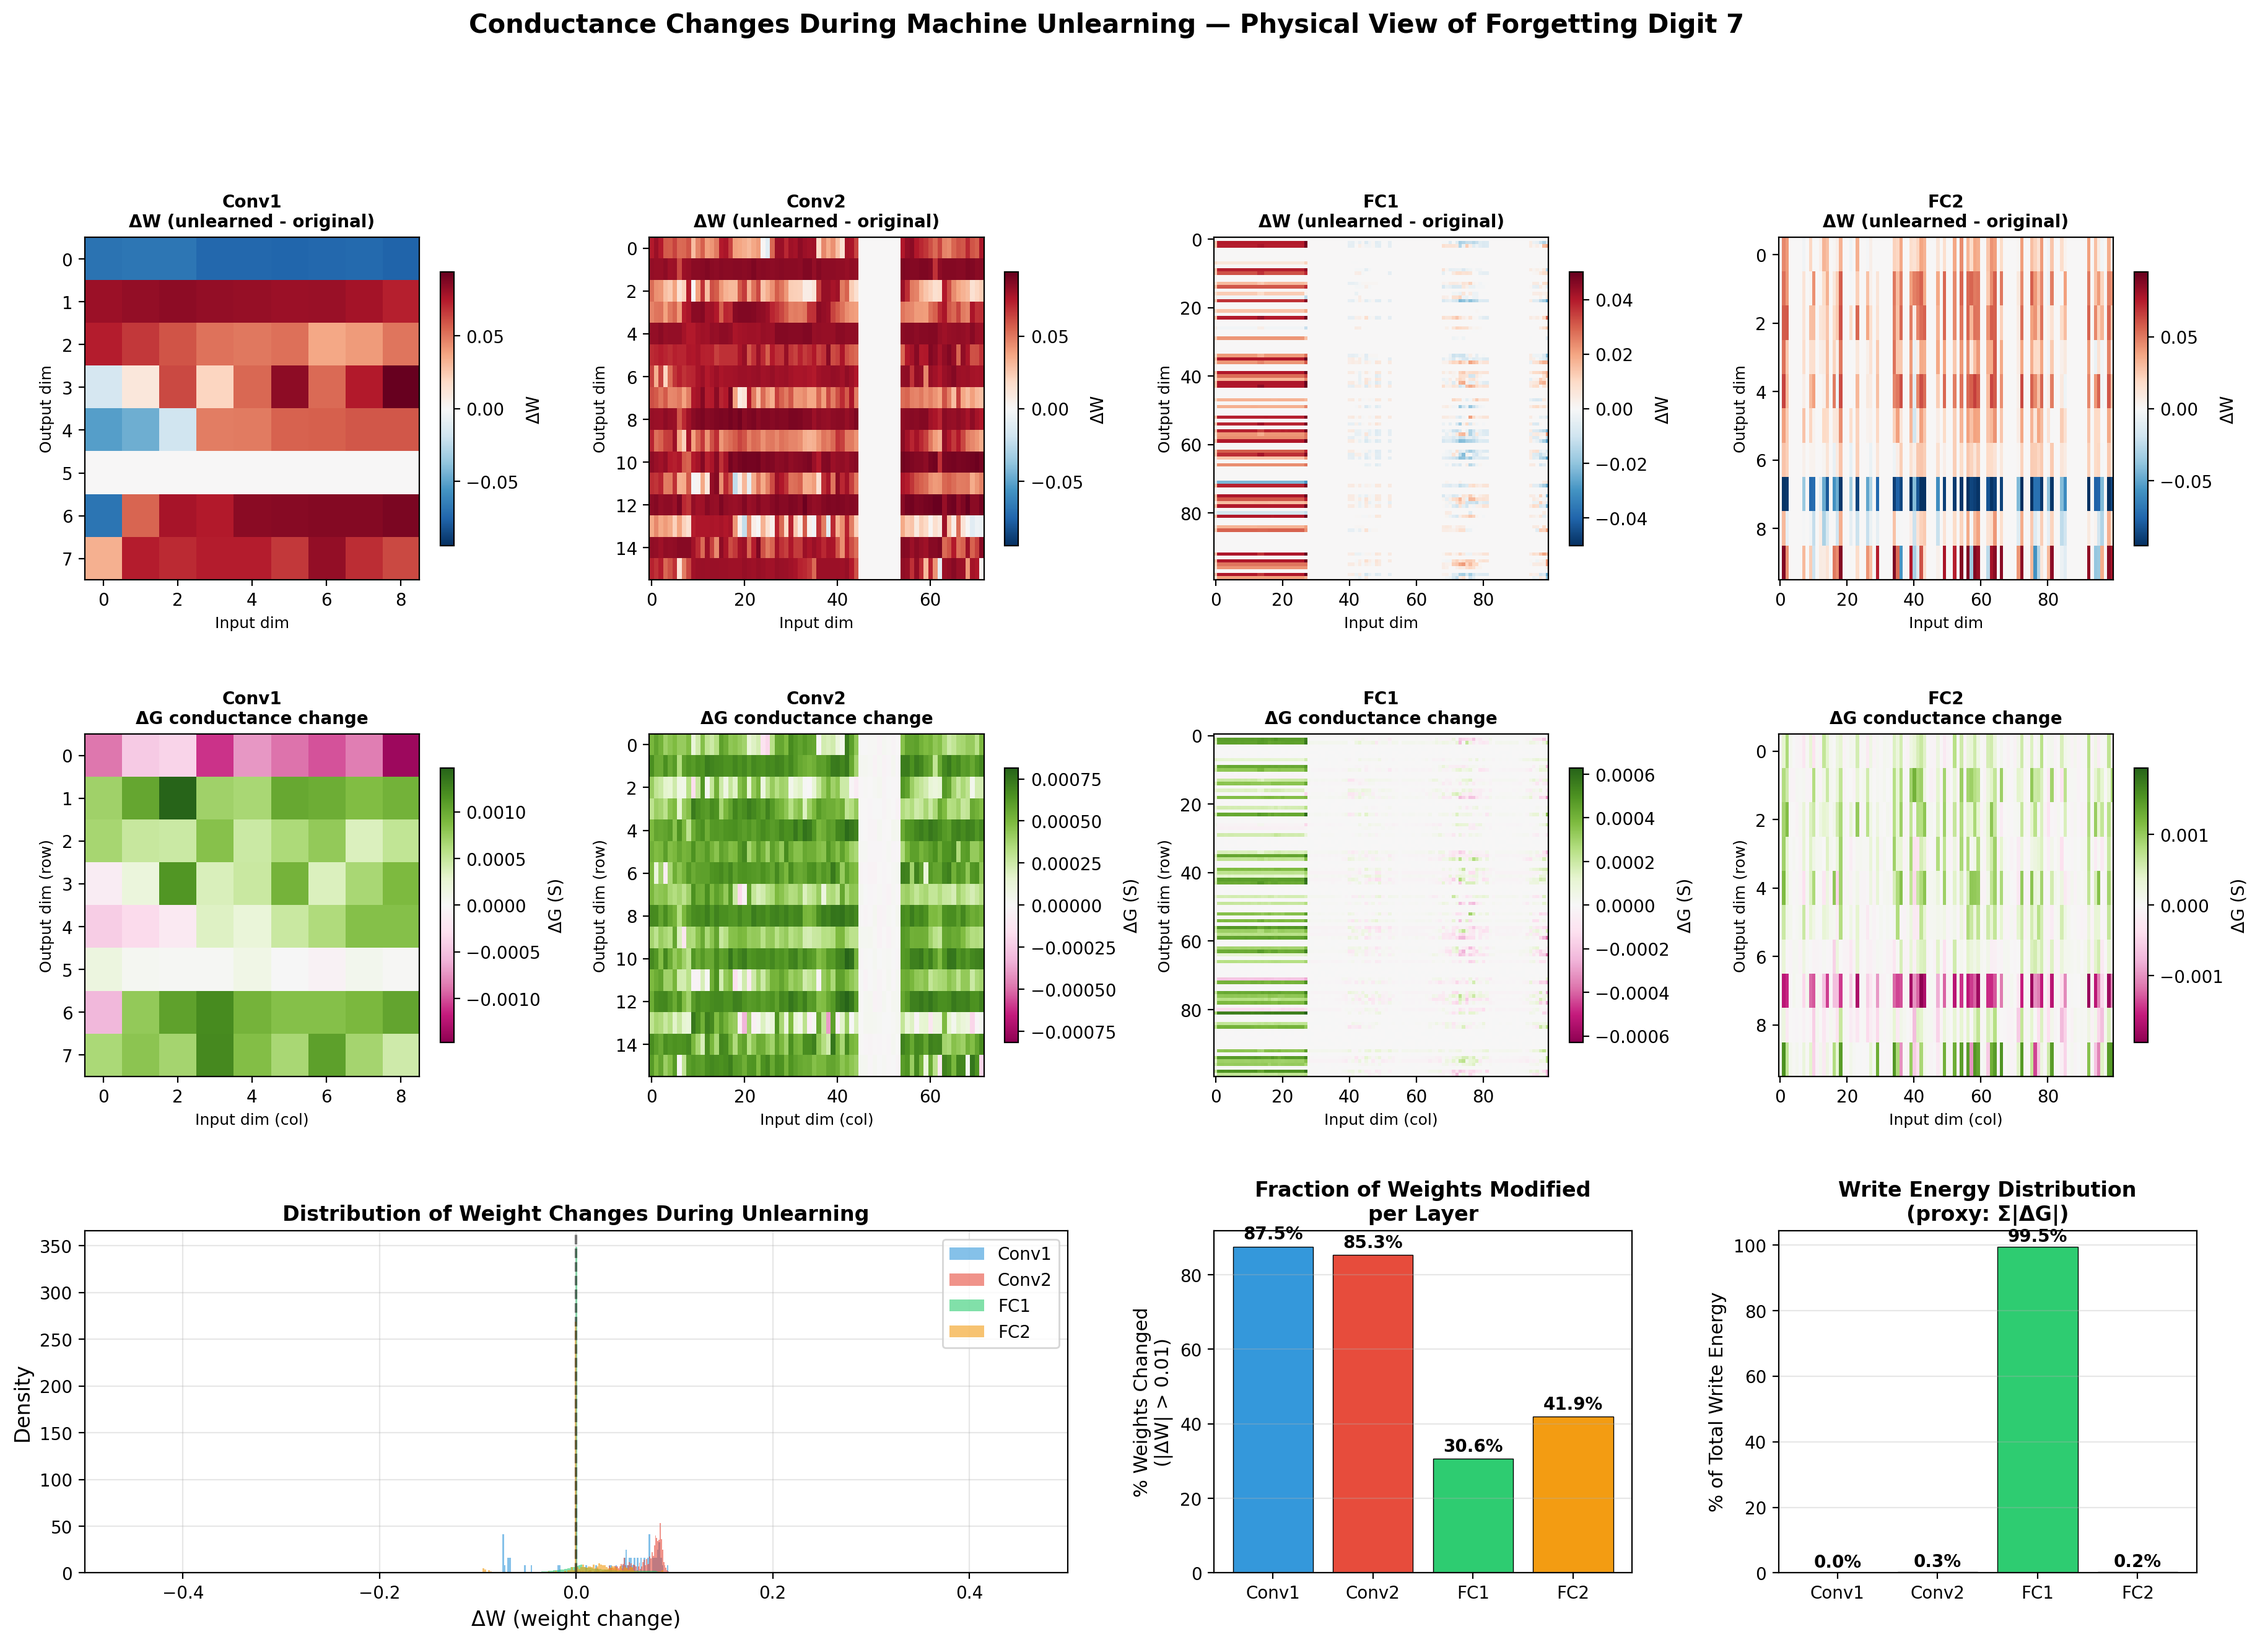
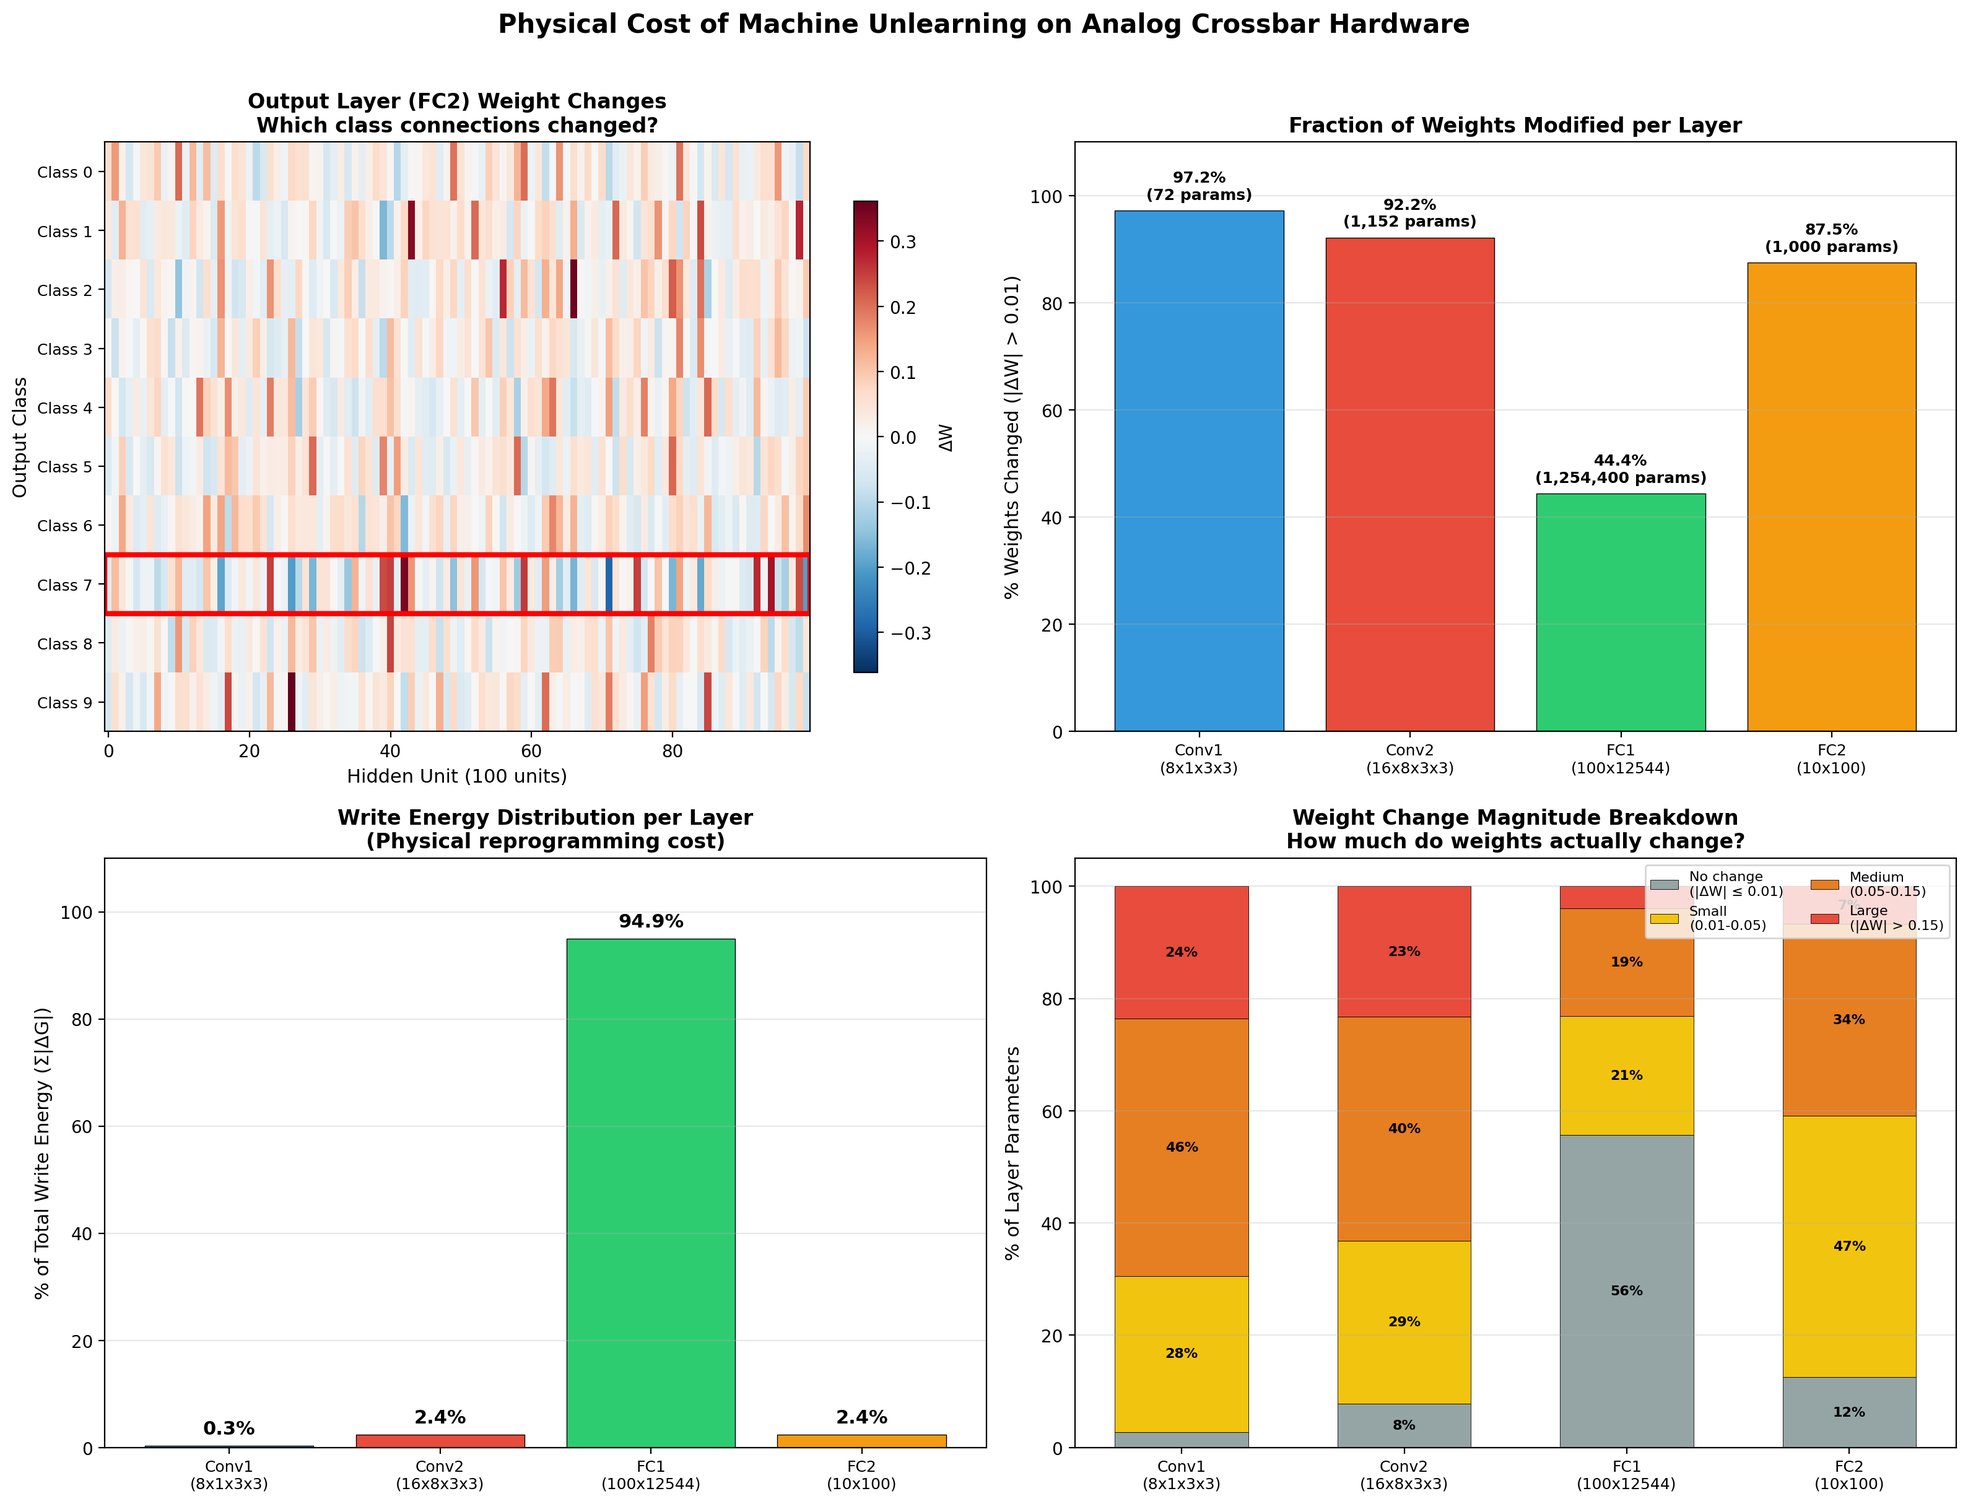
Redesign plot4: clean 2x2 layout with weight change magnitude breakdown
Simplified from 12 cluttered subplots to 4 focused panels:
- FC2 output layer heatmap showing class 7 connections rewritten
- Fraction of weights modified per layer (44% of FC1, 97% of Conv1)
- Write energy distribution (FC1 dominates at 94.9%)
- NEW: Stacked bar showing weight change magnitude breakdown
  Key finding: in FC1, 56% unchanged, 21% small, 19% medium, only 4% large
  This motivates sparse targeted unlearning for hardware efficiency

diff --git a/experiments/unlearning/plot4_conductance_heatmap.py b/experiments/unlearning/plot4_conductance_heatmap.py
@@ -1,15 +1,13 @@
 """
-Plot 4: Conductance Change Heatmap During Unlearning
-Visualizes which weights change (and by how much) when unlearning digit 7.
-Maps weight deltas to conductance deltas — showing the physical operation
-that would occur on a crossbar array.
+Plot 4: Physical Cost of Unlearning — Weight and Conductance Analysis
+Shows what changes in the model when forgetting digit 7, mapped to
+the physical reprogramming cost on analog crossbar hardware.
 """
 
 import torch
 import torch.nn as nn
 import numpy as np
 import matplotlib.pyplot as plt
-import matplotlib.gridspec as gridspec
 from matplotlib.colors import TwoSlopeNorm
 import os
 
@@ -46,6 +44,14 @@ weights_orig = []
 weights_unl = []
 delta_weights = []
 
+FORGET_CLASS = 7
+layer_short_names = {
+    '0.weight': 'Conv1\n(8x1x3x3)',
+    '2.weight': 'Conv2\n(16x8x3x3)',
+    '5.weight': 'FC1\n(100x12544)',
+    '7.weight': 'FC2\n(10x100)',
+}
+
 for (name_o, param_o), (name_u, param_u) in zip(
     net_original.named_parameters(), net_unlearned.named_parameters()
 ):
@@ -59,155 +65,142 @@ for (name_o, param_o), (name_u, param_u) in zip(
         delta_weights.append(dw)
 
         total = dw.size
-        changed = np.sum(np.abs(dw) > 1e-6)
+        changed = np.sum(np.abs(dw) > 0.01)
         pct = 100 * changed / total
         max_delta = np.max(np.abs(dw))
-        print(f"{name_o}: shape={w_o.shape}, changed={changed}/{total} ({pct:.1f}%), max|ΔW|={max_delta:.4f}")
+        print(f"{name_o}: shape={w_o.shape}, changed(|dW|>0.01)={changed}/{total} ({pct:.1f}%), max|ΔW|={max_delta:.4f}")
 
-# ─── Map to conductance space ───
-# CrossSim maps weights to conductances: G = (w - w_min) / (w_max - w_min) * (Gmax - Gmin) + Gmin
-# For balanced cores: G_pos = max(w, 0) * scale,  G_neg = max(-w, 0) * scale
-Gmin = 1e-5   # 10 μS (1/Rmax)
-Gmax = 1e-2   # 10 mS (1/Rmin)
+# ─── Conductance mapping ───
+Gmin = 1e-5   # 10 μS
+Gmax = 1e-2   # 10 mS
 
 def weight_to_conductance(w):
-    """Map weights to balanced (differential) conductance pair."""
-    w_norm = w / max(np.abs(w).max(), 1e-10)  # normalize to [-1, 1]
+    w_norm = w / max(np.abs(w).max(), 1e-10)
     G_pos = np.clip(w_norm, 0, None) * (Gmax - Gmin) + Gmin
     G_neg = np.clip(-w_norm, 0, None) * (Gmax - Gmin) + Gmin
     return G_pos, G_neg
 
-# ─── PLOT ───
-fig = plt.figure(figsize=(22, 14))
-
-# Top row: weight delta heatmaps for each layer
-# Bottom row: conductance statistics and analysis
-
-gs = gridspec.GridSpec(3, 4, hspace=0.45, wspace=0.35)
-
-# --- Top row: Delta-W heatmaps ---
-for i, (name, dw) in enumerate(zip(layer_names, delta_weights)):
-    ax = fig.add_subplot(gs[0, i])
-
-    # Reshape for visualization
-    dw_flat = dw.reshape(dw.shape[0], -1)  # (out_features, in_features_flat)
-
-    # Limit display size for readability
-    if dw_flat.shape[0] > 100:
-        dw_flat = dw_flat[:100, :100]
-    if dw_flat.shape[1] > 100:
-        dw_flat = dw_flat[:, :100]
-
-    vmax = max(np.abs(dw_flat).max(), 1e-6)
-    norm = TwoSlopeNorm(vmin=-vmax, vcenter=0, vmax=vmax)
-
-    im = ax.imshow(dw_flat, cmap='RdBu_r', norm=norm, aspect='auto')
-    plt.colorbar(im, ax=ax, shrink=0.8, label='ΔW')
-
-    short_name = name.replace('.weight', '').replace('0', 'Conv1').replace('2', 'Conv2').replace('5', 'FC1').replace('7', 'FC2')
-    ax.set_title(f'{short_name}\nΔW (unlearned - original)', fontsize=10, fontweight='bold')
-    ax.set_xlabel('Input dim', fontsize=9)
-    ax.set_ylabel('Output dim', fontsize=9)
-
-# --- Middle row: ΔG conductance change heatmaps ---
-for i, (name, w_o, w_u) in enumerate(zip(layer_names, weights_orig, weights_unl)):
-    ax = fig.add_subplot(gs[1, i])
-
-    G_pos_o, G_neg_o = weight_to_conductance(w_o)
-    G_pos_u, G_neg_u = weight_to_conductance(w_u)
-
-    # Net conductance change (both positive and negative arrays)
-    dG = (G_pos_u - G_neg_u) - (G_pos_o - G_neg_o)
-    dG_flat = dG.reshape(dG.shape[0], -1)
-
-    if dG_flat.shape[0] > 100:
-        dG_flat = dG_flat[:100, :100]
-    if dG_flat.shape[1] > 100:
-        dG_flat = dG_flat[:, :100]
-
-    vmax = max(np.abs(dG_flat).max(), 1e-10)
-    norm = TwoSlopeNorm(vmin=-vmax, vcenter=0, vmax=vmax)
-
-    im = ax.imshow(dG_flat, cmap='PiYG', norm=norm, aspect='auto')
-    plt.colorbar(im, ax=ax, shrink=0.8, label='ΔG (S)')
-
-    short_name = name.replace('.weight', '').replace('0', 'Conv1').replace('2', 'Conv2').replace('5', 'FC1').replace('7', 'FC2')
-    ax.set_title(f'{short_name}\nΔG conductance change', fontsize=10, fontweight='bold')
-    ax.set_xlabel('Input dim (col)', fontsize=9)
-    ax.set_ylabel('Output dim (row)', fontsize=9)
-
-# --- Bottom row: Analysis plots ---
-
-# Plot: Distribution of ΔW across all layers
-ax_hist = fig.add_subplot(gs[2, 0:2])
-colors = ['#3498db', '#e74c3c', '#2ecc71', '#f39c12']
-for i, (name, dw) in enumerate(zip(layer_names, delta_weights)):
-    dw_vals = dw.flatten()
-    # Remove near-zero for clarity
-    short_name = name.replace('.weight', '').replace('0', 'Conv1').replace('2', 'Conv2').replace('5', 'FC1').replace('7', 'FC2')
-    ax_hist.hist(dw_vals, bins=100, alpha=0.6, color=colors[i], label=short_name, density=True)
-
-ax_hist.set_xlabel('ΔW (weight change)', fontsize=12)
-ax_hist.set_ylabel('Density', fontsize=12)
-ax_hist.set_title('Distribution of Weight Changes During Unlearning', fontsize=12, fontweight='bold')
-ax_hist.legend(fontsize=10)
-ax_hist.set_xlim([-0.5, 0.5])
-ax_hist.axvline(x=0, color='black', linestyle='--', alpha=0.5)
-ax_hist.grid(alpha=0.3)
-
-# Plot: Per-layer statistics — fraction of weights changed and energy cost proxy
-ax_stats = fig.add_subplot(gs[2, 2])
-
-layer_short = []
+# ─── Compute per-layer statistics ───
+short_names = []
 fracs_changed = []
 mean_abs_delta = []
-for name, dw in zip(layer_names, delta_weights):
-    short_name = name.replace('.weight', '').replace('0', 'Conv1').replace('2', 'Conv2').replace('5', 'FC1').replace('7', 'FC2')
-    layer_short.append(short_name)
+total_dG_per_layer = []
+total_params_per_layer = []
+
+for name, dw, w_o, w_u in zip(layer_names, delta_weights, weights_orig, weights_unl):
+    sname = layer_short_names.get(name, name)
+    short_names.append(sname)
     total = dw.size
+    total_params_per_layer.append(total)
     changed = np.sum(np.abs(dw) > 0.01)
     fracs_changed.append(100.0 * changed / total)
     mean_abs_delta.append(np.mean(np.abs(dw)))
 
-x_pos = np.arange(len(layer_short))
-bars = ax_stats.bar(x_pos, fracs_changed, color=colors, edgecolor='black', linewidth=0.5)
-ax_stats.set_xticks(x_pos)
-ax_stats.set_xticklabels(layer_short, fontsize=10)
-ax_stats.set_ylabel('% Weights Changed\n(|ΔW| > 0.01)', fontsize=11)
-ax_stats.set_title('Fraction of Weights Modified\nper Layer', fontsize=12, fontweight='bold')
-ax_stats.grid(axis='y', alpha=0.3)
-for bar, frac in zip(bars, fracs_changed):
-    ax_stats.text(bar.get_x() + bar.get_width()/2., bar.get_height() + 1,
-                  f'{frac:.1f}%', ha='center', va='bottom', fontsize=10, fontweight='bold')
-
-# Plot: Write energy proxy (total |ΔG| per layer)
-ax_energy = fig.add_subplot(gs[2, 3])
-
-total_dG_per_layer = []
-for w_o, w_u in zip(weights_orig, weights_unl):
     G_pos_o, G_neg_o = weight_to_conductance(w_o)
     G_pos_u, G_neg_u = weight_to_conductance(w_u)
-    # Total conductance change = sum of |ΔG| for both pos and neg arrays
     total_dG = np.sum(np.abs(G_pos_u - G_pos_o)) + np.sum(np.abs(G_neg_u - G_neg_o))
     total_dG_per_layer.append(total_dG)
 
-# Normalize to relative scale
 total_dG_arr = np.array(total_dG_per_layer)
-total_dG_norm = total_dG_arr / total_dG_arr.sum() * 100
+total_dG_pct = total_dG_arr / total_dG_arr.sum() * 100
 
-bars = ax_energy.bar(x_pos, total_dG_norm, color=colors, edgecolor='black', linewidth=0.5)
-ax_energy.set_xticks(x_pos)
-ax_energy.set_xticklabels(layer_short, fontsize=10)
-ax_energy.set_ylabel('% of Total Write Energy', fontsize=11)
-ax_energy.set_title('Write Energy Distribution\n(proxy: Σ|ΔG|)', fontsize=12, fontweight='bold')
-ax_energy.grid(axis='y', alpha=0.3)
-for bar, pct in zip(bars, total_dG_norm):
-    ax_energy.text(bar.get_x() + bar.get_width()/2., bar.get_height() + 0.5,
-                  f'{pct:.1f}%', ha='center', va='bottom', fontsize=10, fontweight='bold')
+# ─── PLOT: 2x2 clean layout ───
+fig, axes = plt.subplots(2, 2, figsize=(16, 12))
 
-plt.suptitle('Conductance Changes During Machine Unlearning — Physical View of Forgetting Digit 7',
+colors = ['#3498db', '#e74c3c', '#2ecc71', '#f39c12']
+
+# --- Plot A: FC2 output layer heatmap (most interpretable) ---
+ax1 = axes[0, 0]
+# FC2 is 10x100: each row is an output class, each col is a hidden unit
+dw_fc2 = delta_weights[3]  # 7.weight, shape (10, 100)
+vmax = max(np.abs(dw_fc2).max(), 1e-6)
+norm = TwoSlopeNorm(vmin=-vmax, vcenter=0, vmax=vmax)
+im = ax1.imshow(dw_fc2, cmap='RdBu_r', norm=norm, aspect='auto')
+plt.colorbar(im, ax=ax1, shrink=0.8, label='ΔW')
+ax1.set_yticks(range(10))
+ax1.set_yticklabels([f'Class {i}' for i in range(10)], fontsize=9)
+ax1.set_xlabel('Hidden Unit (100 units)', fontsize=11)
+ax1.set_ylabel('Output Class', fontsize=11)
+ax1.set_title('Output Layer (FC2) Weight Changes\nWhich class connections changed?', fontsize=12, fontweight='bold')
+# Highlight row 7
+rect = plt.Rectangle((-0.5, FORGET_CLASS - 0.5), 100, 1, fill=False,
+                      edgecolor='red', linewidth=3)
+ax1.add_patch(rect)
+ax1.annotate('Digit 7\n(forgotten)', xy=(102, FORGET_CLASS), fontsize=10,
+             fontweight='bold', color='red', va='center')
+
+# --- Plot B: % weights modified per layer ---
+ax2 = axes[0, 1]
+x_pos = np.arange(len(short_names))
+bars = ax2.bar(x_pos, fracs_changed, color=colors, edgecolor='black', linewidth=0.5)
+ax2.set_xticks(x_pos)
+ax2.set_xticklabels(short_names, fontsize=9)
+ax2.set_ylabel('% Weights Changed (|ΔW| > 0.01)', fontsize=11)
+ax2.set_title('Fraction of Weights Modified per Layer', fontsize=12, fontweight='bold')
+ax2.set_ylim([0, 110])
+ax2.grid(axis='y', alpha=0.3)
+for bar, frac, total in zip(bars, fracs_changed, total_params_per_layer):
+    ax2.text(bar.get_x() + bar.get_width()/2., bar.get_height() + 1.5,
+             f'{frac:.1f}%\n({total:,} params)', ha='center', va='bottom',
+             fontsize=9, fontweight='bold')
+
+# --- Plot C: Write energy distribution ---
+ax3 = axes[1, 0]
+bars = ax3.bar(x_pos, total_dG_pct, color=colors, edgecolor='black', linewidth=0.5)
+ax3.set_xticks(x_pos)
+ax3.set_xticklabels(short_names, fontsize=9)
+ax3.set_ylabel('% of Total Write Energy (Σ|ΔG|)', fontsize=11)
+ax3.set_title('Write Energy Distribution per Layer\n(Physical reprogramming cost)', fontsize=12, fontweight='bold')
+ax3.set_ylim([0, 110])
+ax3.grid(axis='y', alpha=0.3)
+for bar, pct in zip(bars, total_dG_pct):
+    ax3.text(bar.get_x() + bar.get_width()/2., bar.get_height() + 1.5,
+             f'{pct:.1f}%', ha='center', va='bottom', fontsize=11, fontweight='bold')
+
+# --- Plot D: Stacked bar — weight change magnitude breakdown per layer ---
+ax4 = axes[1, 1]
+
+# Categorize weight changes per layer
+categories = {'No change\n(|ΔW| ≤ 0.01)': [], 'Small\n(0.01-0.05)': [],
+              'Medium\n(0.05-0.15)': [], 'Large\n(|ΔW| > 0.15)': []}
+
+for dw in delta_weights:
+    abs_dw = np.abs(dw.flatten())
+    total = len(abs_dw)
+    categories['No change\n(|ΔW| ≤ 0.01)'].append(100 * np.sum(abs_dw <= 0.01) / total)
+    categories['Small\n(0.01-0.05)'].append(100 * np.sum((abs_dw > 0.01) & (abs_dw <= 0.05)) / total)
+    categories['Medium\n(0.05-0.15)'].append(100 * np.sum((abs_dw > 0.05) & (abs_dw <= 0.15)) / total)
+    categories['Large\n(|ΔW| > 0.15)'].append(100 * np.sum(abs_dw > 0.15) / total)
+
+x_pos4 = np.arange(len(short_names))
+width4 = 0.6
+cat_colors = ['#95a5a6', '#f1c40f', '#e67e22', '#e74c3c']
+bottom = np.zeros(len(short_names))
+
+for (cat_name, cat_vals), col in zip(categories.items(), cat_colors):
+    vals = np.array(cat_vals)
+    bars = ax4.bar(x_pos4, vals, width4, bottom=bottom, color=col,
+                   edgecolor='black', linewidth=0.3, label=cat_name)
+    # Label significant segments
+    for i, (v, b) in enumerate(zip(vals, bottom)):
+        if v > 5:
+            ax4.text(x_pos4[i], b + v/2, f'{v:.0f}%', ha='center', va='center',
+                     fontsize=8, fontweight='bold')
+    bottom += vals
+
+ax4.set_xticks(x_pos4)
+ax4.set_xticklabels(short_names, fontsize=9)
+ax4.set_ylabel('% of Layer Parameters', fontsize=11)
+ax4.set_title('Weight Change Magnitude Breakdown\nHow much do weights actually change?',
+              fontsize=12, fontweight='bold')
+ax4.legend(fontsize=8, loc='upper right', ncol=2)
+ax4.set_ylim([0, 105])
+ax4.grid(axis='y', alpha=0.3)
+
+plt.suptitle('Physical Cost of Machine Unlearning on Analog Crossbar Hardware',
              fontsize=15, fontweight='bold', y=1.01)
 
+plt.tight_layout()
 plt.savefig('/ssd_4TB/divake/cross-sim/experiments/unlearning/plots/plot4_conductance_heatmap.png',
             dpi=200, bbox_inches='tight')
 print(f"\nPlot saved to experiments/unlearning/plots/plot4_conductance_heatmap.png")
